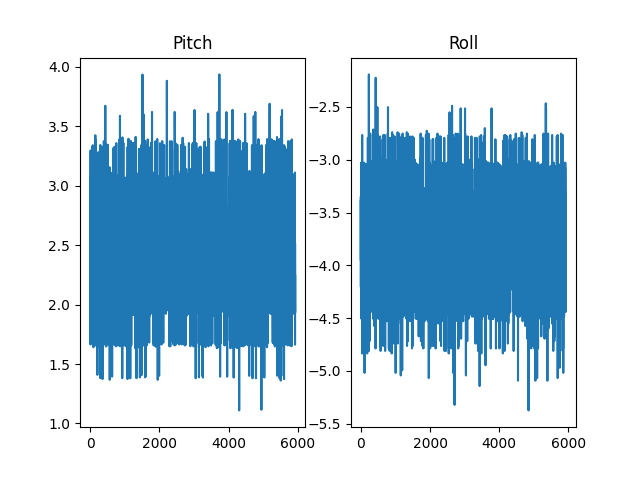
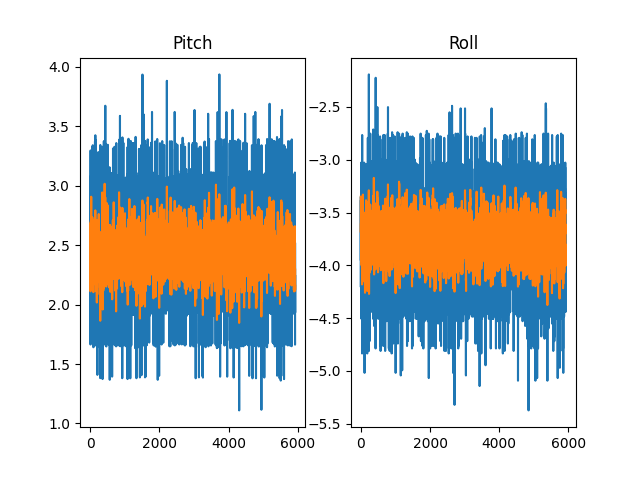
finished first exercise

Changed region(s): [[0.125, 0.375, 0.4688, 0.6562], [0.5625, 0.375, 0.9062, 0.625]]

diff --git a/idt_module_1_materials/exercise_imu/imu_exercise.py b/idt_module_1_materials/exercise_imu/imu_exercise.py
@@ -20,6 +20,8 @@ imuType = "sparkfun_razor"
 showPlot = True
 plotDataPitch = []
 plotDataRoll = []
+plotFiltDataPitch = []
+plotFiltDataRoll = []
 
 ## Initialize your variables here ##
 pitch = 0.0
@@ -30,6 +32,7 @@ roll = 0.0
 # import libraries
 from math import pi, sqrt, atan2
 import matplotlib.pyplot as plt
+import math
 
 # open the imu data file
 f = open(fileName, "r")
@@ -45,11 +48,19 @@ def acc2euler(ax, ay, az):
     return [pitch, roll]
 
 
-def low_pass(new_value, last_filtered, alpha=0.1):
-    return alpha * new_value + (1 - alpha) * last_filtered
+class LowPassFilter:
+    def __init__(self, cutoff_freq, dt, initial_value=0.0):
+        rc = 1.0 / (2.0 * math.pi * cutoff_freq)
+        self.alpha = dt / (rc + dt)
+        self.y = initial_value
+
+    def update(self, x):
+        self.y += self.alpha * (x - self.y)
+        return self.y
 
 
 # looping through file
+
 
 for line in f:
     count += 1
@@ -97,12 +108,23 @@ for line in f:
     # gyro_z	Angular velocity measured about the z axis
 
     ## Insert your code here ##
-
     [pitch, roll] = acc2euler(acc_x, acc_y, acc_z)
+
+    if count == 2:
+        # init of filter
+        freq = 5
+        dt = ts_now - ts_prev
+        lpFilterP = LowPassFilter(freq, dt, pitch * 180.0 / pi)
+        lpFilterR = LowPassFilter(freq, dt, roll * 180.0 / pi)
 
     # in order to show a plot use this function to append your value to a list:
     plotDataPitch.append(pitch * 180.0 / pi)
     plotDataRoll.append(roll * 180.0 / pi)
+
+    if count >= 2:
+        # filt data
+        plotFiltDataPitch.append(lpFilterP.update(plotDataPitch[-1]))
+        plotFiltDataRoll.append(lpFilterR.update(plotDataRoll[-1]))
 
     ######################################################
 
@@ -113,8 +135,10 @@ f.close()
 if showPlot == True:
     fig, ax = plt.subplots(1, 2)
     ax[0].plot(plotDataPitch)
+    ax[0].plot(plotFiltDataPitch)
     ax[0].set_title("Pitch")
     ax[1].plot(plotDataRoll)
+    ax[1].plot(plotFiltDataRoll)
     ax[1].set_title("Roll")
     plt.savefig("imu_exerciseRoll_plot.png")
     plt.show()
